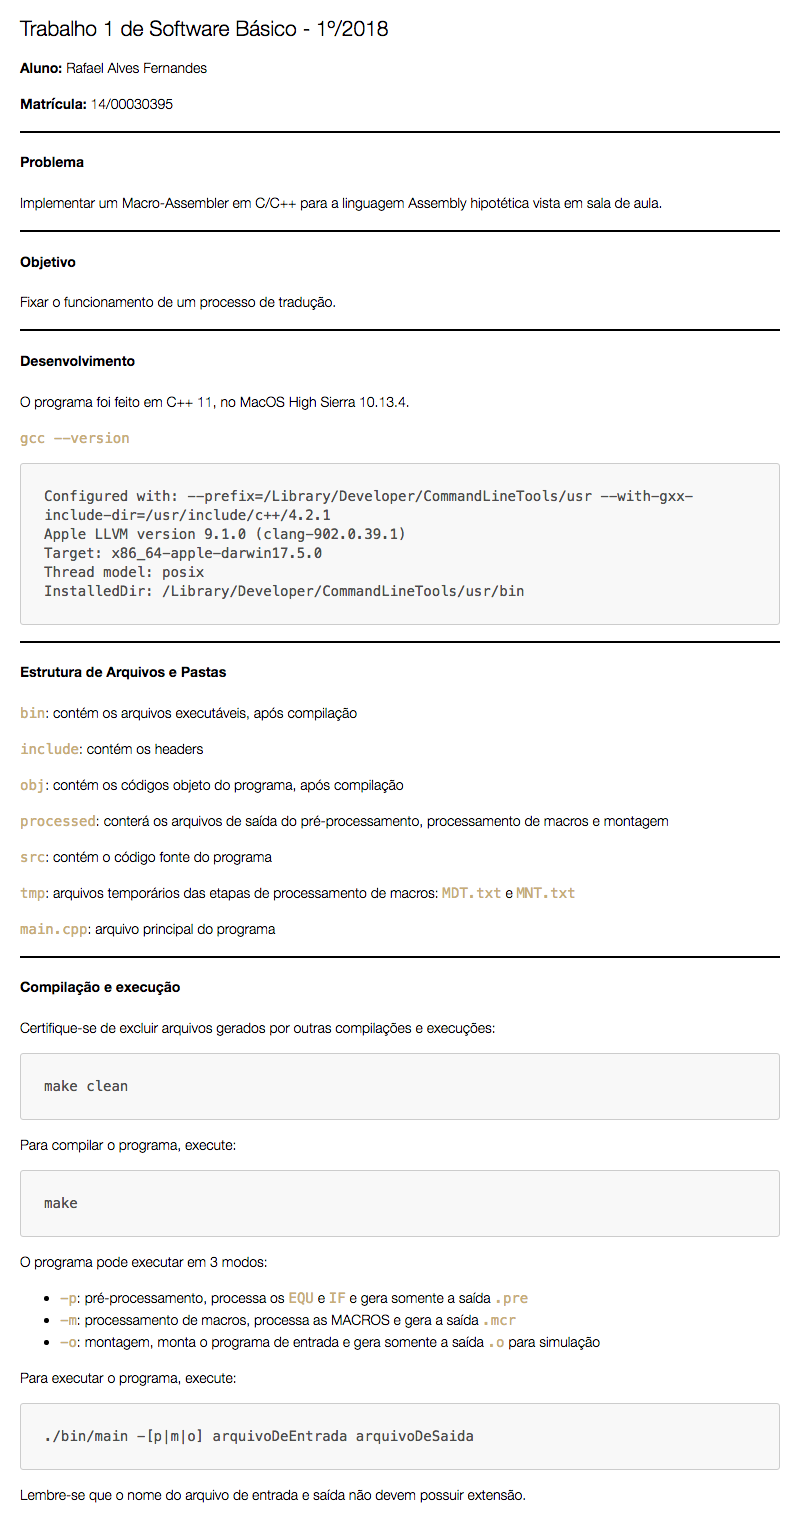
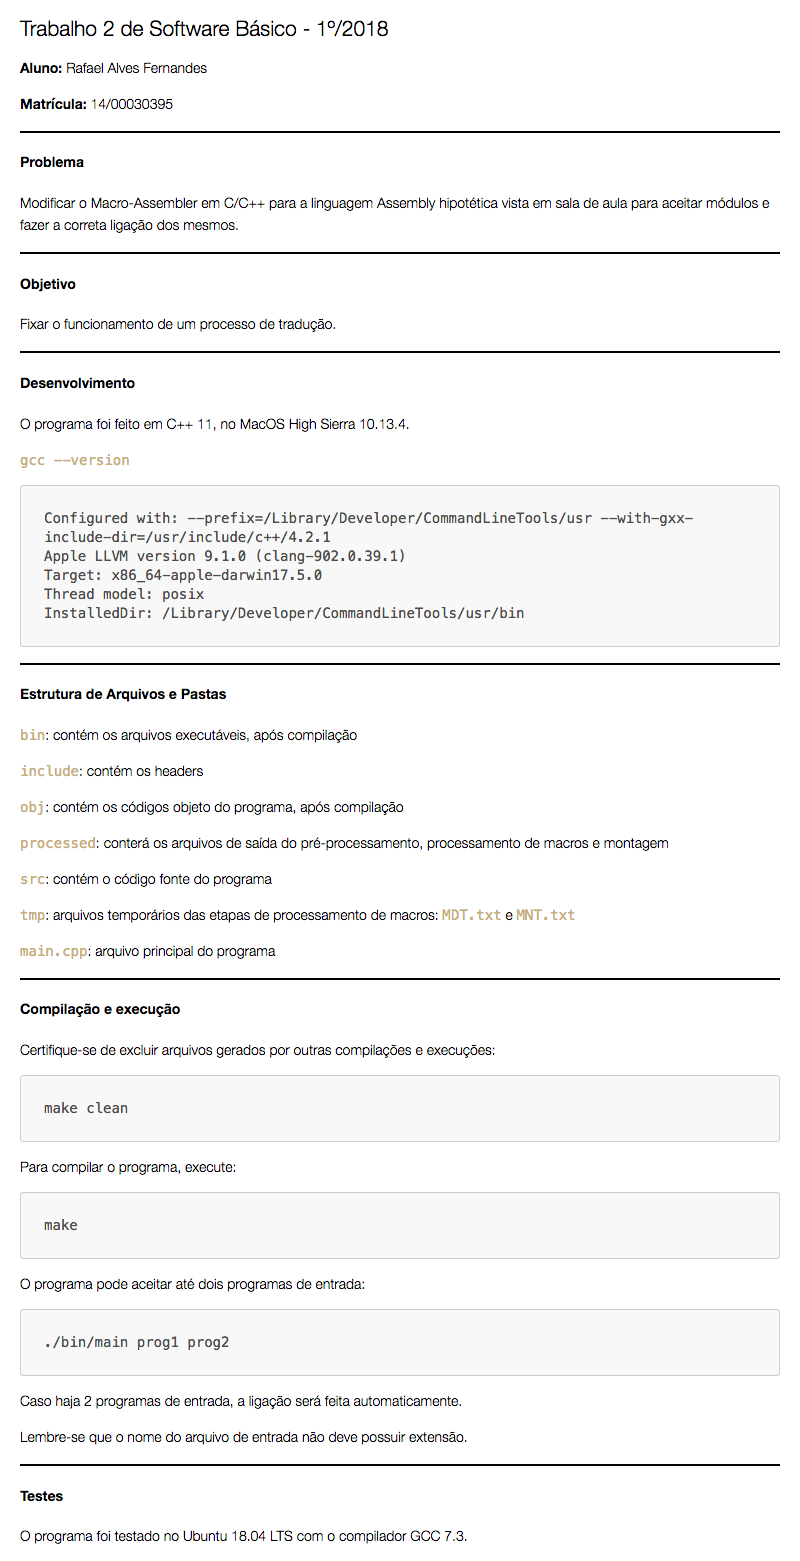
Atualiza README

diff --git a/README.md b/README.md
@@ -1,4 +1,4 @@
-## Trabalho 1 de Software Básico - 1º/2018
+## Trabalho 2 de Software Básico - 1º/2018
 
 **Aluno:** Rafael Alves Fernandes
 
@@ -8,7 +8,7 @@
 
 #### Problema
 
-Implementar um Macro-Assembler em C/C++ para a linguagem Assembly hipotética vista em sala de aula.
+Modificar o Macro-Assembler em C/C++ para a linguagem Assembly hipotética vista em sala de aula para aceitar módulos e fazer a correta ligação dos mesmos.
 
 ---
 
@@ -66,19 +66,15 @@ Para compilar o programa, execute:
 make
 ```
 
-O programa pode executar em 3 modos:
-
-- `-p`: pré-processamento, processa os `EQU` e `IF` e gera somente a saída `.pre`
-- `-m`: processamento de macros, processa as MACROS e gera a saída `.mcr`
-- `-o`: montagem, monta o programa de entrada e gera somente a saída `.o` para simulação
-
-Para executar o programa, execute:
+O programa pode aceitar até dois programas de entrada:
 
 ```
-./bin/main -[p|m|o] arquivoDeEntrada arquivoDeSaida
+./bin/main prog1 prog2
 ```
 
-Lembre-se que o nome do arquivo de entrada e saída não devem possuir extensão.
+Caso haja 2 programas de entrada, a ligação será feita automaticamente.
+
+Lembre-se que o nome do arquivo de entrada não deve possuir extensão.
 
 ---
 
